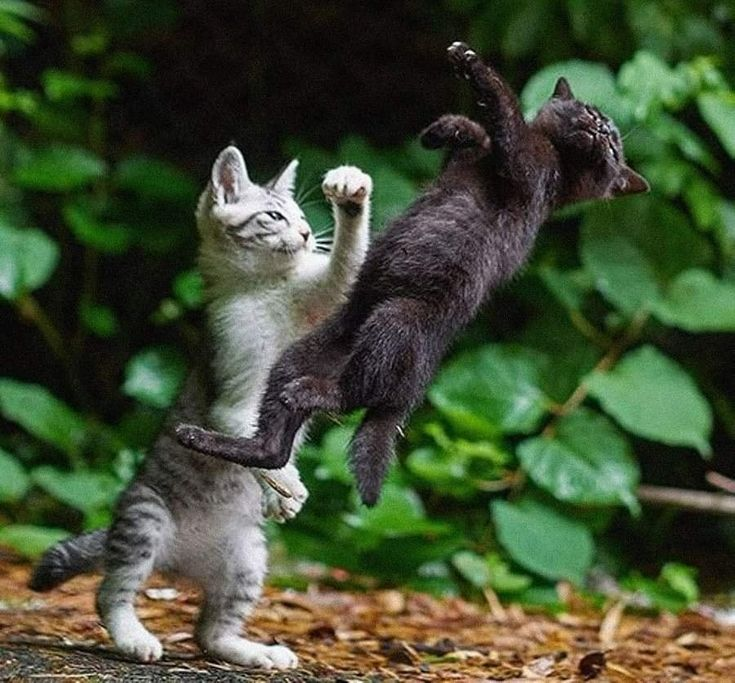
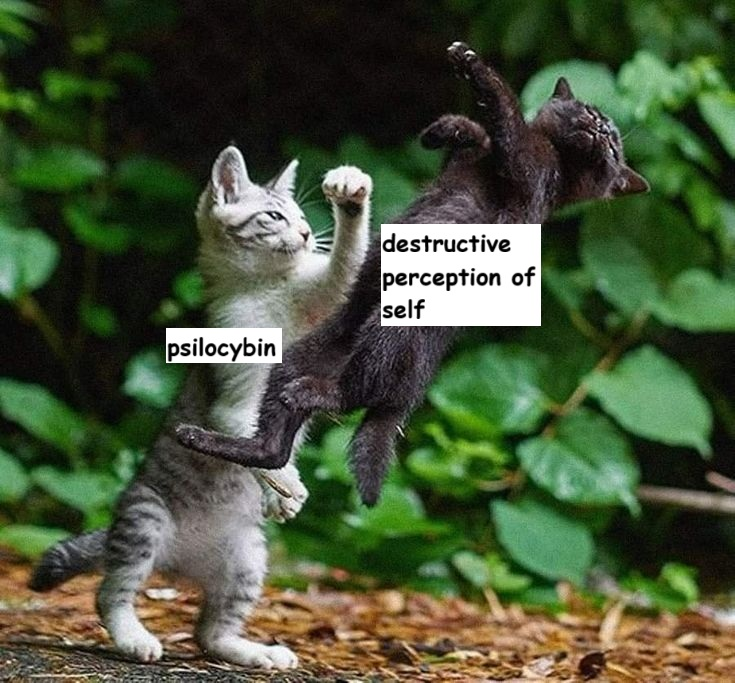
auto: 2025-09-10 08:13:06

Changed region(s): [[0.5088, 0.3075, 0.7483, 0.4919], [0.2095, 0.4612, 0.3891, 0.5534]]

diff --git a/_posts/2025-09-09-Neuroscience - Psylocibin.md b/_posts/2025-09-09-Neuroscience - Psylocibin.md
@@ -1,0 +1,112 @@
+---
+title: "Neuroscience - Psilocybin's potential for profound change "
+date: 2025-09-09 01:00:00 
+categories: [Neuroscience]
+tags: [Neuroscience, Psilocybin]
+---
+## Introduction
+
+Psilocybin is a psychoactive compound found in certain types of mushrooms naturally occurring on every continent on our planet.
+
+The substance has a long history of use in spiritual ceremonies, festivals, and modern subcultures.
+
+The effects of Psilocybin are altered perceptions of sights, sounds, time and space and an overall profoundly changed sense of reality that can feel frightening or overwhelming for some individuals.
+
+In recent years, studies have suggested that Psilocybin and related analogs may hold therapeutic potential in treating a range of mental health conditions, including addiction, depression, anxiety, and PTSD.
+
+In this post, I will give a brief overview to illustrate why researchers are increasingly fascinated by the hidden potential of so-called “magic mushrooms”.
+
+## Desynchronizing the sense of self 
+
+Normally, each person’s functional brain network is as unique as a fingerprint. Under the influence of Psilocybin, however, these networks become disrupted and less individualized. If our brain activity were measured with an fMRI scanner(a tool that measures brain activity), it would actually be easier to tell you apart from your own sober self than to tell you and me apart while we are both on Psilocybin.
+
+This effect is especially pronounced in the so-called Default Mode Network (DMN) — a characteristic pattern of brain activity that emerges when the mind is at rest, wandering, or not focused on any specific task. Your DMN activity is normally highly individual, but on Psilocybin it becomes far less distinct, blending into a more uniform state that looks surprisingly similar across different people.
+
+But how could this help individuals to overcome addiction and other mental illnesses?
+
+The answer lies in the way Psilocybin disrupts rigid patterns of brain connectivity. Imagine a person with severe trauma or recurrent symptoms of depression and negative self-view. Over time, this person’s brain constructs a “self” that constantly guides thoughts and behaviors along the same painful loops, reinforcing despair.
+
+Neuroimaging studies, for example, have shown that people with depression often display heightened functional connectivity between the hippocampus (a structure involved in memory) and the Default Mode Network (DMN). This tight coupling can trap individuals in cycles of rumination and self-focus. Psilocybin appears to desynchronize such connections, loosening the grip of the DMN, altering the sense of self, and creating a window for increased neuroplasticity. Within this state, the belief that change is possible can emerge.
+
+Importantly, this desynchronization is not limited to the acute psychedelic experience — it has been observed to persist for days or even weeks after a single session, although not permanently. This extended window may be what gives therapeutic interventions their unique power when combined with Psilocybin.
+
+![neuron](/assets/neuroscience/cat.jpg)
+
+## The science behind it 1 : acute effects 
+
+The study I looked at shows that the brain’s functional connectivity (FC) — in simpler terms, the intensity of communication between brain areas — is significantly altered under Psilocybin, and some of those changes last well beyond the trip itself.
+
+Here’s the primary source I analyzed :  
+https://www.nature.com/articles/s41586-024-07624-5/figures/1
+
+### 6-Step Explanation how to read the graphic in the link above(1a, 1b, 1c)
+
+1. **Signal source**  
+   fMRI measures blood oxygenation (BOLD), an indirect marker of neural activity in different brain regions.  
+
+2. **Functional connectivity (FC)**  
+   FC is calculated as the correlation between the time series of different brain regions. Correlations range from –1 to +1, but in practice most lie between 0.0 and 0.5.  
+
+3. **From matrix to vector**  
+   All pairwise correlations are flattened into a single vector, which represents the brain’s “connectivity fingerprint” at one state (e.g., sober or on Psilocybin).  
+
+4. **Euclidean distance**  
+   The distance between two states (two FC vectors) is the square root of the sum of squared differences across all connections.  
+
+5. **Normalization**  
+   Before comparing distances, FC values are often z-scored or otherwise normalized. This keeps the values in a compact, dimensionless range.  
+
+6. **Interpreting the scale**  
+   Because individual FC values are small and highly correlated, the resulting Euclidean distances rarely exceed ~0.5:  
+   - ~0.1 → very similar states  
+   - ~0.5 → substantially reorganized network  
+
+   The key insight: it’s the **relative difference** that matters (sober vs. Psilocybin vs. between subjects), not the absolute number itself.
+
+Figure 1c–1f illustrates how the subjective experience can vary dramatically from session to session, as measured by the MEQ-30 (Mystical Experience Questionnaire), a tool that quantifies the intensity of psychedelic effects. This variability highlights why any therapeutic use of Psilocybin must be nuanced, professionally guided, and embedded in repeated, controlled environments.
+
+Self-medicating with untested substances in uncontrolled settings is not only ineffective but potentially dangerous. Professional medical assessment and structured therapeutic frameworks are essential—even to test the theory safely.
+
+Lasting change is always a process, never a one-shot deal. 
+
+## The science behind it 2 : Local and global desynchronization
+
+Watch this primary source as you read:
+
+https://www.nature.com/articles/s41586-024-07624-5/figures/3 
+
+Figure 3a compares resting-state fMRI signals under Psilocybin versus methylphenidate (Ritalin). Psilocybin clearly increases spatial complexity—also called entropy, or more simply, randomness—both locally and globally. This is quantified in panels 3b and 3c, which introduce the NGSC (Normalized Global Spatial Complexity) measure.
+
+Panels 3d and 3e visualize how NGSC changes are not limited to Psilocybin: LSD produces similar effects, suggesting a robust mechanism shared across multiple psychedelic substances.
+
+Finally, panel 3f links these effects to pharmacology. Psilocybin is metabolized into Psilocin, which alters functional connectivity most strongly in brain regions rich in 5-HT2A receptors.  These receptors are enriched in association cortex, including DMN regions, *"frequently associated with neuropsychiatric disorders34,35,87,88,89,90,91, and in a region of the anterior and middle hippocampus associated with the self29,92 and the present moment93." [^1]
+
+## The science behind it 3 : Persistent effects on hippocampal–cortical FC
+
+Watch this primary source as you read:  
+https://www.nature.com/articles/s41586-024-07624-5/figures/5
+
+This part of the study demonstrates that changes in hippocampal–cortical functional connectivity (FC) can persist for up to three weeks, before gradually returning to baseline. This is clearly visible in **Figure 5a**, where connectivity reductions remain weeks after the initial session.
+
+**Figure 5c** provides an individual example, contrasting pre- and post-psilocybin scans and illustrating the persistent drop in connectivity with the Default Mode Network (DMN).
+
+## Conclusion
+
+Psilocybin desynchronizes the brain on both a local and global scale, with the strongest effects observed during the initial intake and measurable alterations persisting for around three weeks. This change in communication—especially between the hippocampus and cortical regions—may open a temporary window for profound change, enabling individuals struggling with mental illnesses to experience relief and create lasting therapeutic progress.
+
+Maybe in a few years (altered to produce fewer hallucinogenic effects while retaining the therapeutic benefits):
+
+![neuron](/assets/neuroscience/allow.png)
+
+This isn’t pure speculation—several biotech companies are already working on *non-hallucinogenic 5-HT2A agonists* that aim to provide the neuroplasticity boost without the full psychedelic trip. If successful, such compounds could make psychedelic-inspired therapy more accessible in clinical settings.
+
+
+## Further reading
+
+https://nida.nih.gov/research-topics/psilocybin-magic-mushrooms#effects-psilocybin
+https://www.nature.com/articles/s41586-024-07624-5
+https://medicine.washu.edu/news/mushrooms-generate-psychedelic-experience-by-disrupting-brain-network/
+
+
+
+[^1]: Nature (2024). *Psilocybin desynchronizes the human brain*. https://www.nature.com/articles/s41586-024-07624-5

diff --git a/_posts/2025-09-06-Neuroscience - Part 1.md b/_posts/2025-09-06-Neuroscience - Part 1.md
@@ -1,6 +1,6 @@
 ---
 title: "Neuroscience - Part 1 : Fundamentals "
-date: 2025-09-06 00:00:00 +0800
+date: 2025-09-06 00:00:00 
 categories: [Neuroscience]
 tags: [Neuroscience]
 ---
@@ -61,7 +61,7 @@ Working through these fundamentals gave me a solid foundation to understand how 
 
 This first part was about the building blocks. In the next section, the focus will shift from single neurons and synapses toward larger systems and how they interact to create perception, movement, and ultimately behaviour.
 
-## Sources 
+## Further Reading
 
 https://speechneurolab.ca/en/la-transmission-synaptique/
 https://nida.nih.gov/research-topics/cocaine#work

diff --git a/_posts/2025-09-07-Neuroscience - Cocaine.md b/_posts/2025-09-07-Neuroscience - Cocaine.md
@@ -1,6 +1,6 @@
 ---
-title: "Neuroscience - Digression into Cocaine's Control Flow Hijack of Dopamine Circuits"
-date: 2025-09-07 00:00:00 +0800
+title: "Neuroscience - Cocaine's Control Flow Hijack of Dopamine Circuits"
+date: 2025-09-07 01:00:00 
 categories: [Neuroscience]
 tags: [Cocaine, Dopamine, Addiction, Neuroscience]
 ---

diff --git a/_posts/2025-07-21-ropemporium badchars.md b/_posts/2025-07-21-ropemporium badchars.md
@@ -1,6 +1,6 @@
 ---
 title: "ropemporium - challenge 5 'badchars' "
-date: 2025-07-21 00:00:00 +0800
+date: 2025-07-21 00:00:00 
 categories: [ropemporium]
 tags: [pwn, return-oriented programming]
 ---

diff --git a/_posts/2025-07-21-ropemporium ret2win .md b/_posts/2025-07-21-ropemporium ret2win .md
@@ -1,6 +1,6 @@
 ---
 title: "ropemporium - challenge 1 'ret2win' "
-date: 2025-07-21 00:00:00 +0800
+date: 2025-07-21 00:00:00 
 categories: [ropemporium]
 tags: [pwn, return-oriented programming]
 ---

diff --git a/_posts/2025-07-21-ropemporium write4.md b/_posts/2025-07-21-ropemporium write4.md
@@ -1,6 +1,6 @@
 ---
 title: "ropemporium - challenge 4 'write4' "
-date: 2025-07-21 00:00:00 +0800
+date: 2025-07-21 00:00:00 
 categories: [ropemporium]
 tags: [pwn, return-oriented programming]
 ---

diff --git a/_posts/2025-07-21-ropemporium callme.md b/_posts/2025-07-21-ropemporium callme.md
@@ -1,6 +1,6 @@
 ---
 title: "ropemporium - challenge 3 'callme' "
-date: 2025-07-21 00:00:00 +0800
+date: 2025-07-21 00:00:00
 categories: [ropemporium]
 tags: [pwn, return-oriented programming]
 ---

diff --git a/_posts/2025-07-21-ropemporium fluff.md b/_posts/2025-07-21-ropemporium fluff.md
@@ -1,6 +1,6 @@
 ---
 title: "ropemporium - challenge 6 'fluff' "
-date: 2025-07-21 00:00:00 +0800
+date: 2025-07-21 00:00:00 
 categories: [ropemporium]
 tags: [pwn, return-oriented programming]
 ---

diff --git a/_posts/2025-07-21-ropemporium split .md b/_posts/2025-07-21-ropemporium split .md
@@ -1,6 +1,6 @@
 ---
 title: "ropemporium - challenge 2 'split' "
-date: 2025-07-21 00:00:00 +0800
+date: 2025-07-21 00:00:00 
 categories: [ropemporium]
 tags: [pwn, return-oriented programming]
 ---

diff --git a/_posts/2025-04-01-calc.md b/_posts/2025-04-01-calc.md
@@ -1,6 +1,6 @@
 ---
 title: "calc - a small challenge written in C"
-date: 2025-04-01 00:00:00 +0800
+date: 2025-04-01 00:00:00 
 categories: [C]
 tags: [C, Reverse Engineering]
 ---

diff --git a/_posts/2025-09-04-TP-Link1.md b/_posts/2025-09-04-TP-Link1.md
@@ -1,6 +1,6 @@
 ---
 title: "TL-WR841N - Part 1 : Reconnaissance"
-date: 2025-09-04 00:00:00 +0800
+date: 2025-09-04 00:00:00 
 categories: [Router]
 tags: [Reverse Engineering]
 ---
